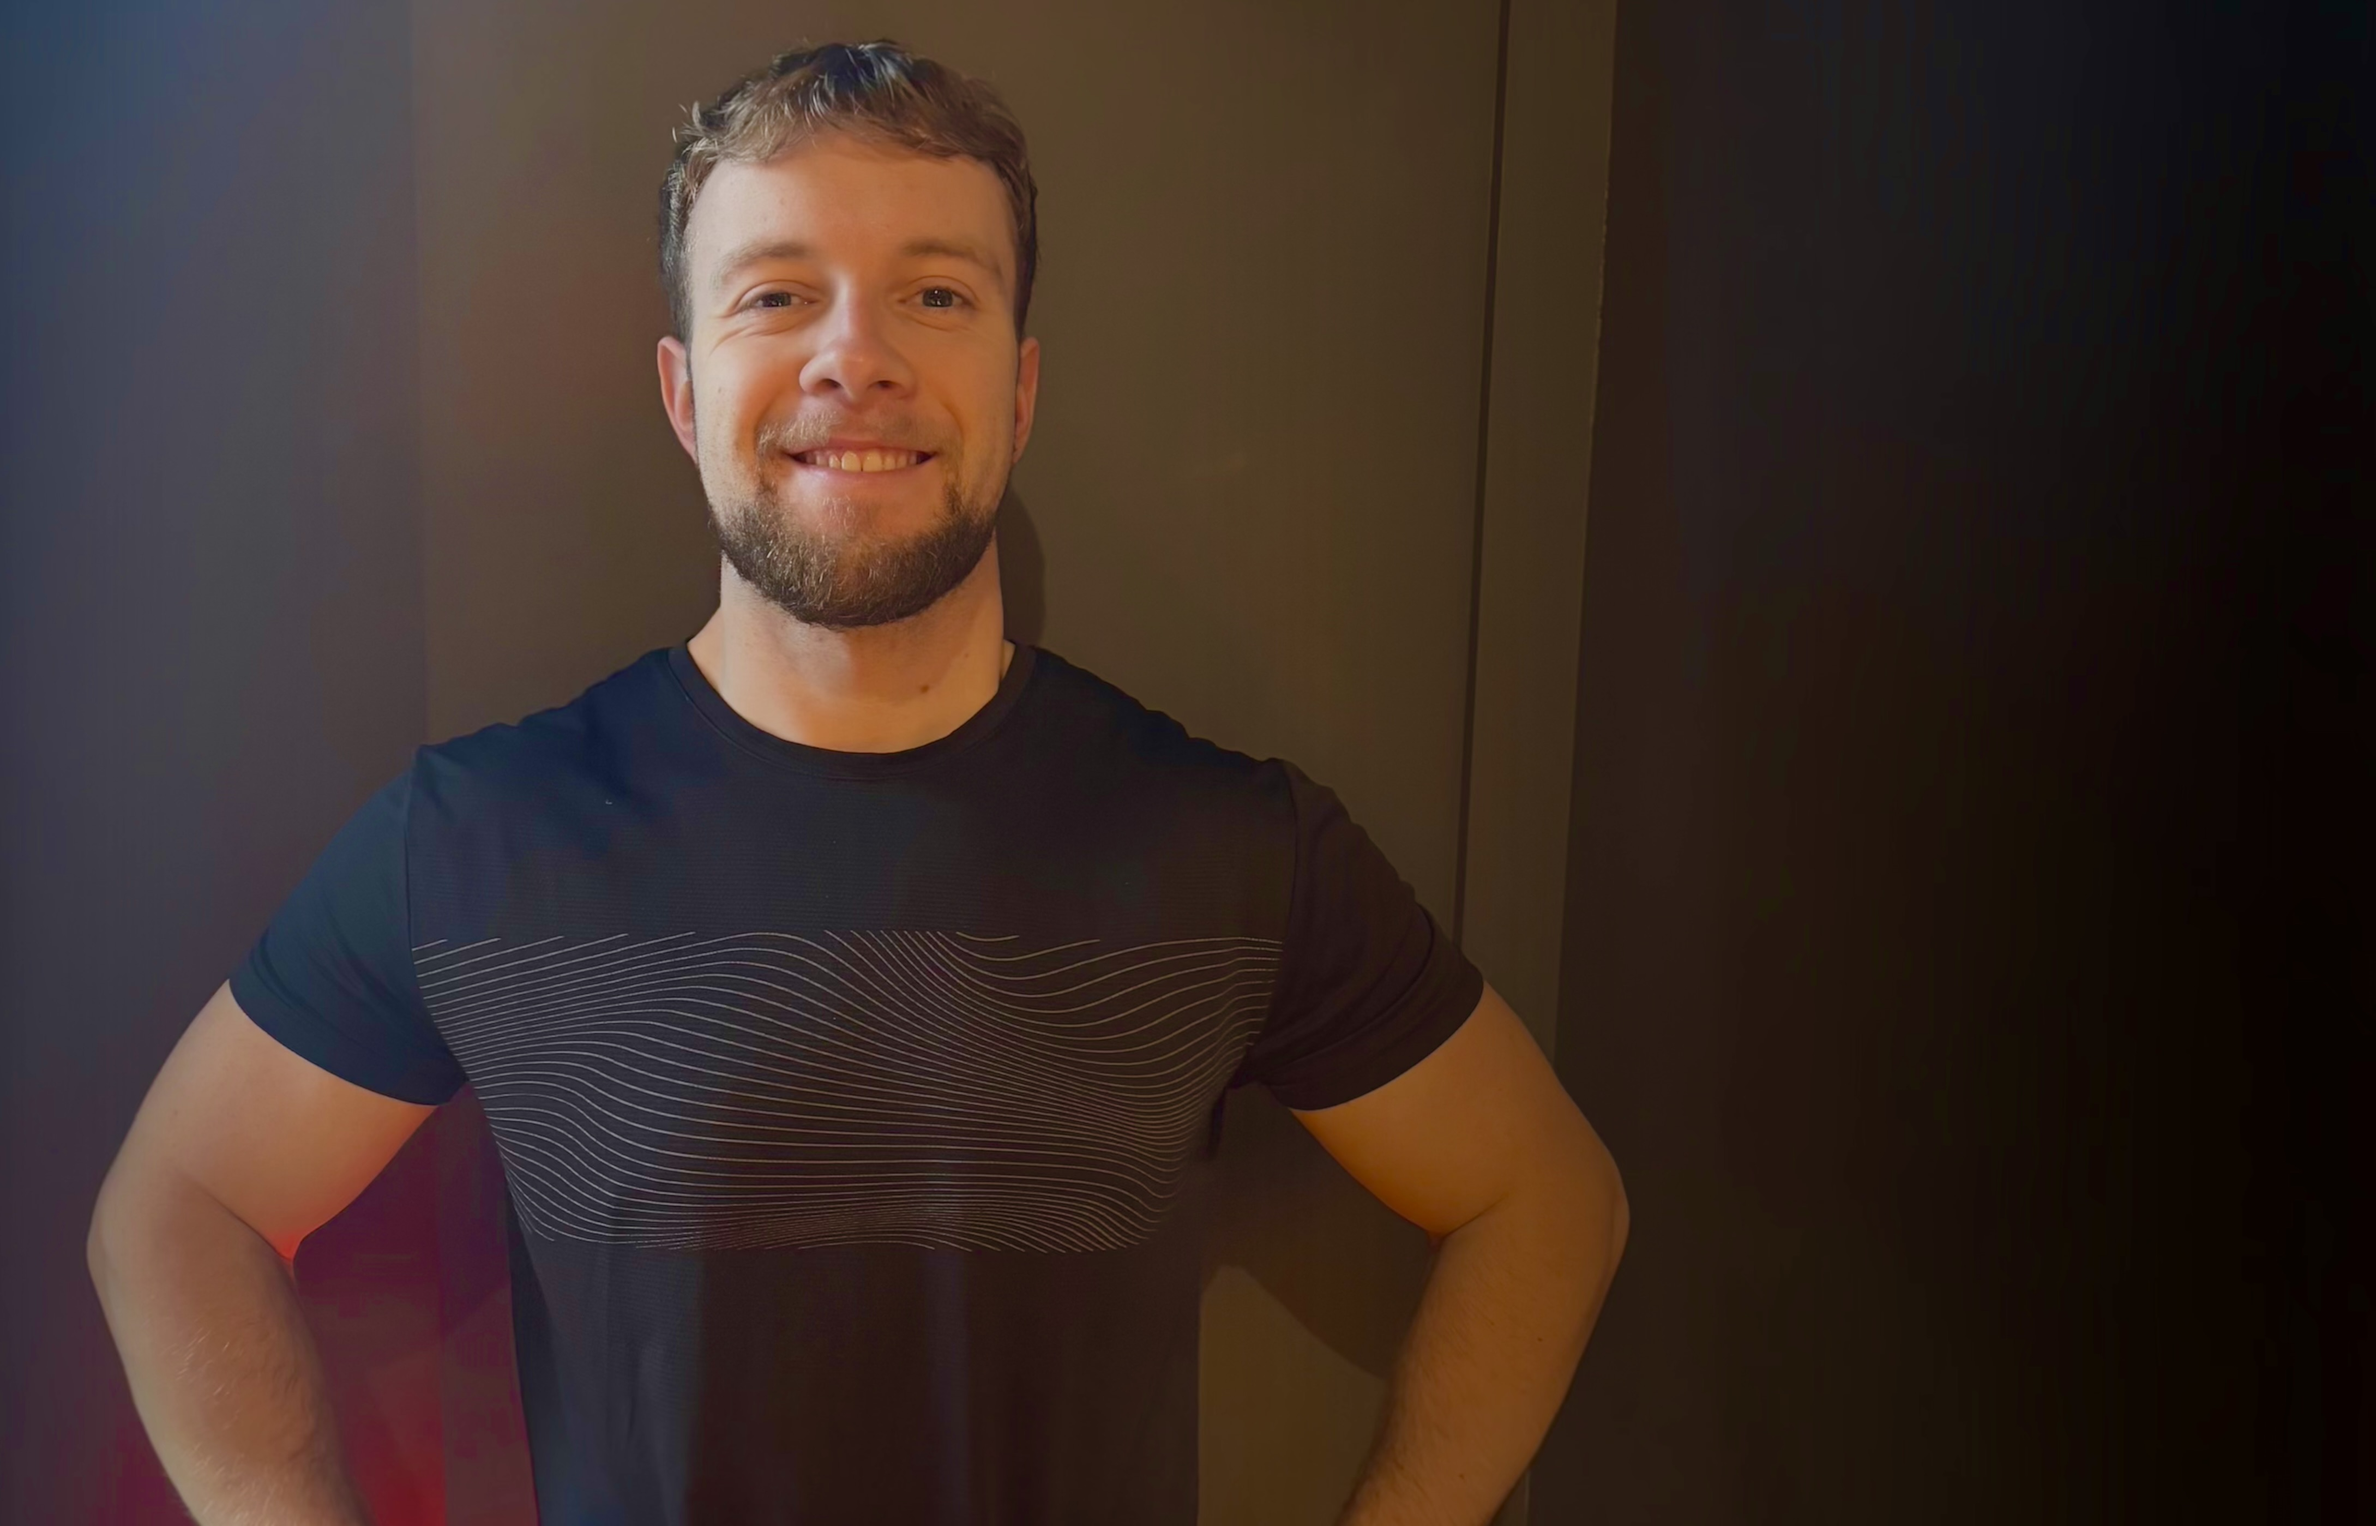
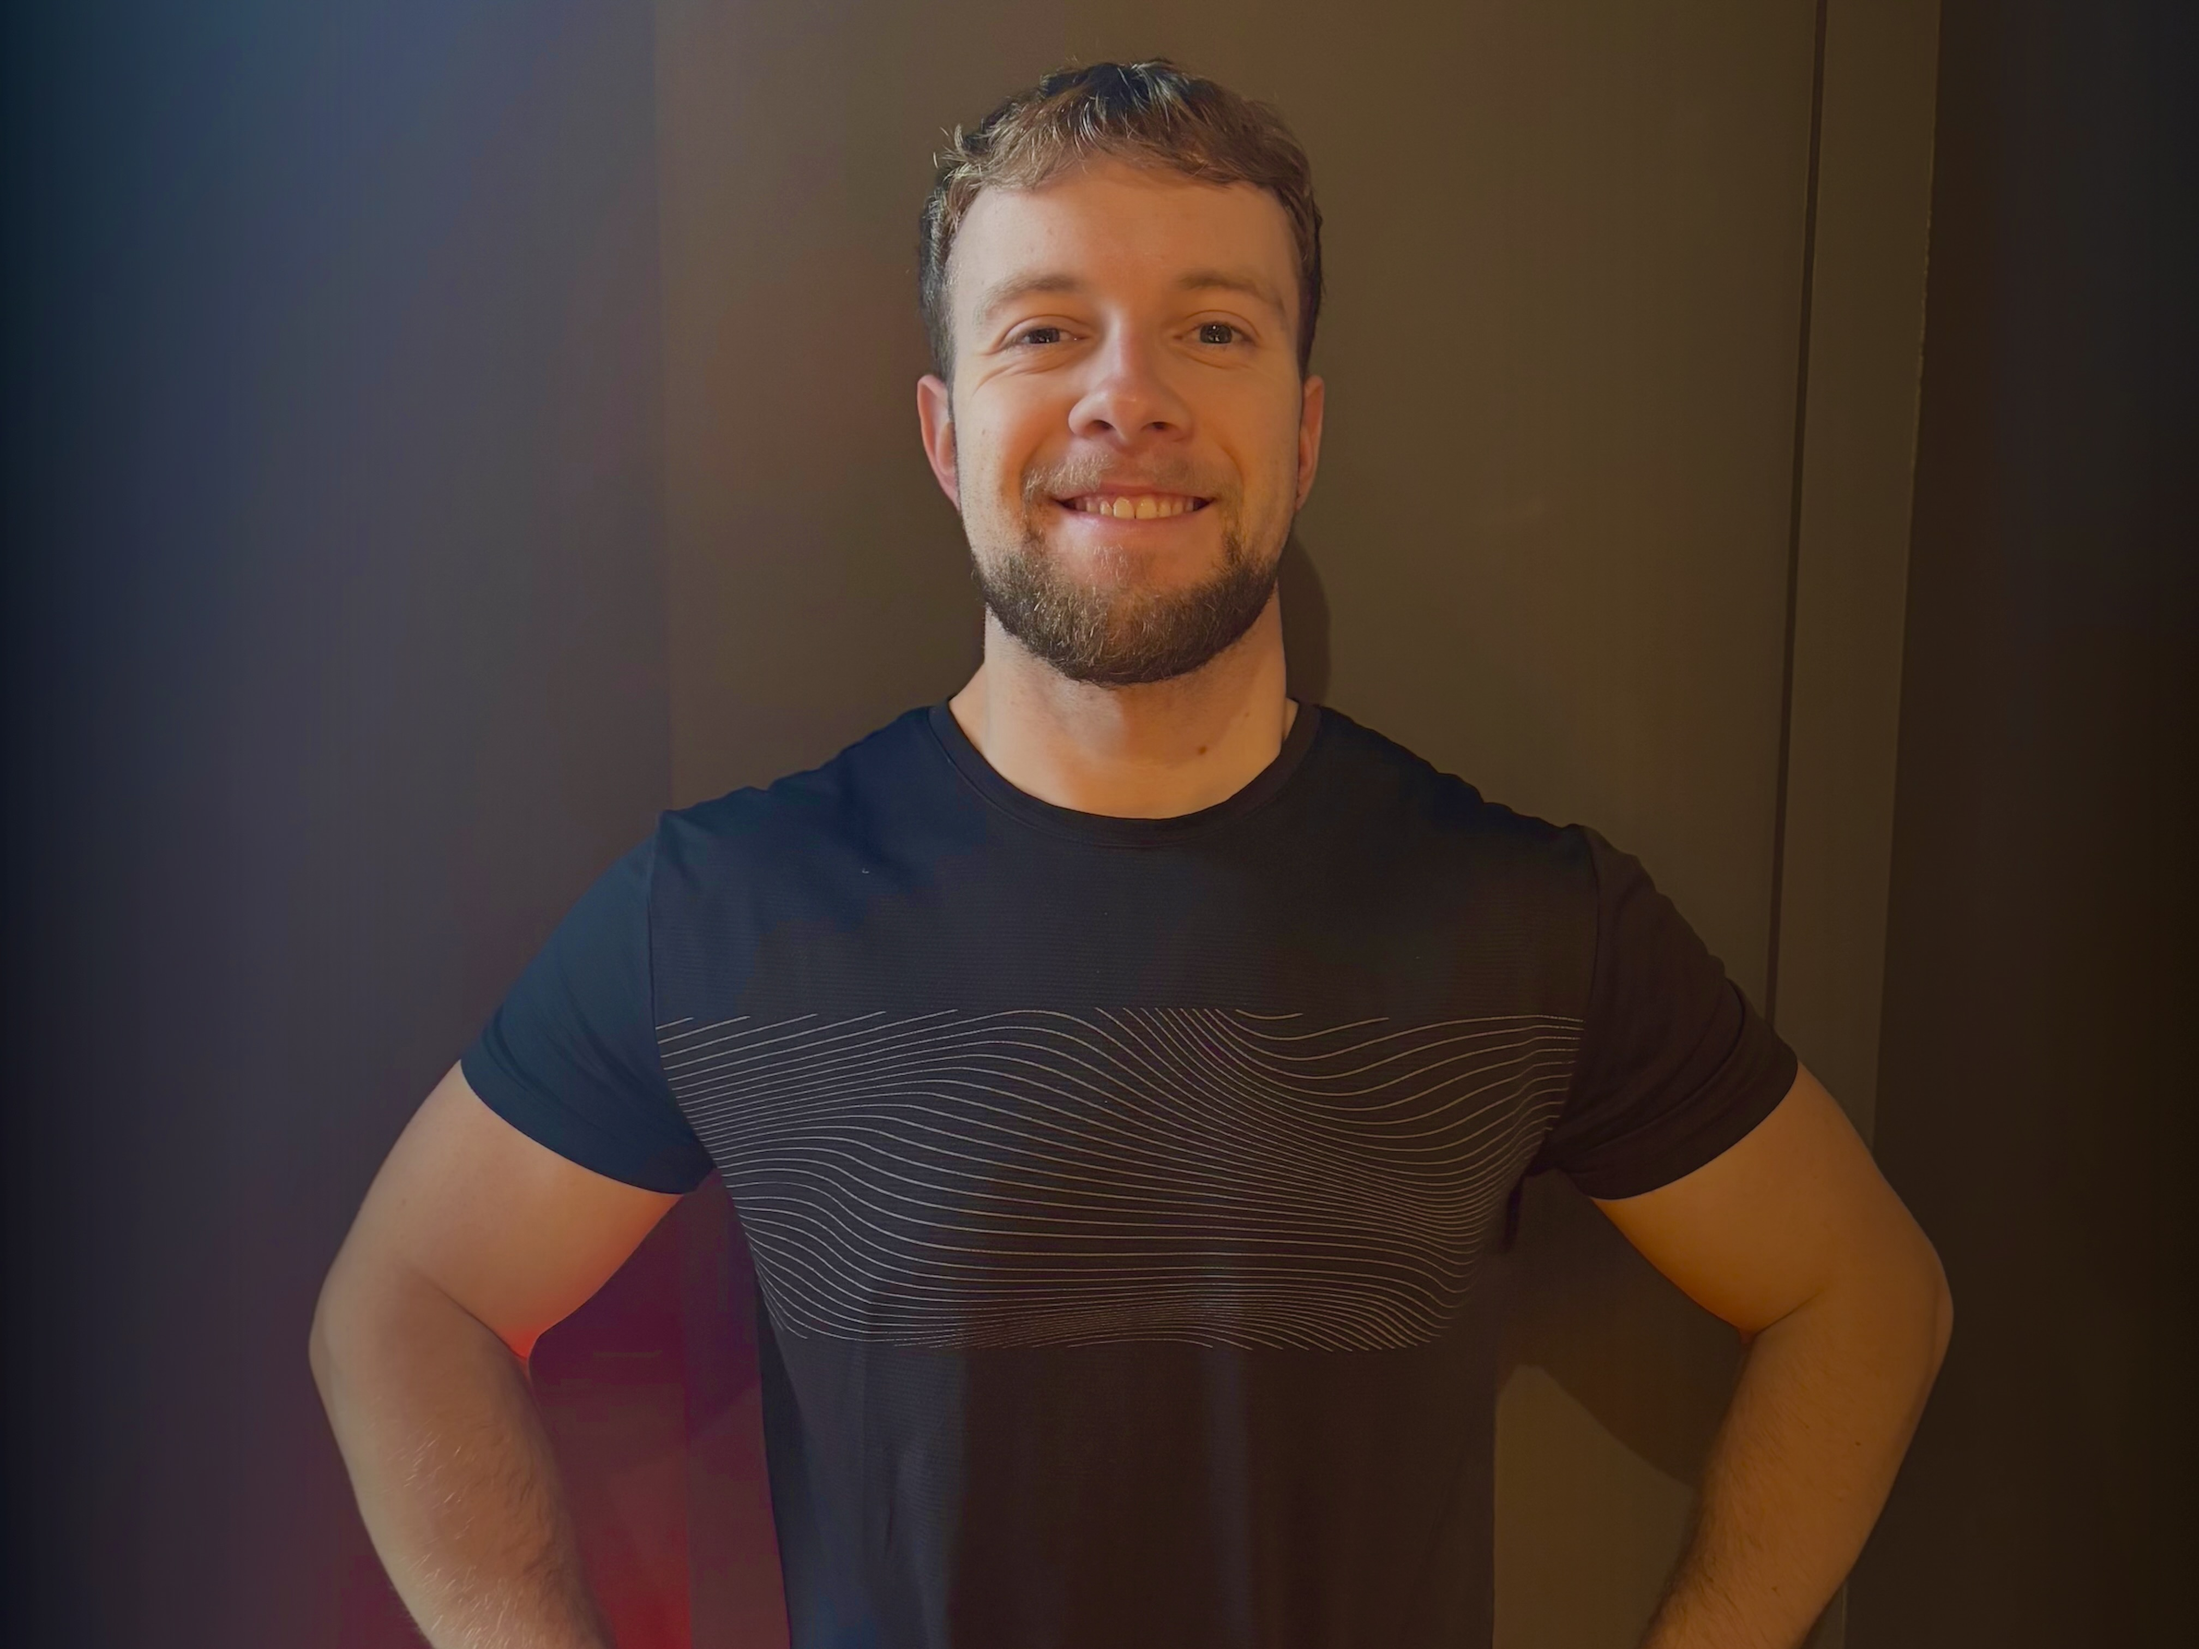
footer completed

diff --git a/index.html b/index.html
@@ -12,6 +12,7 @@
     <link rel="stylesheet" href="css/services.css">
     <link rel="stylesheet" href="css/results.css">
     <link rel="stylesheet" href="css/clients.css">
+    <link rel="stylesheet" href="css/footer.css">
     <link rel="img" href="img">
 
 </head>
@@ -148,16 +149,25 @@
 
         <footer id="contact">
             <div class="footer">
-                <p>LETS DO THIS</p>
-                <h2>READY TO GET STARTED?</h2>
-                <p>Your goals. Your plan. Your progress. <br> Let's build a stronger, healthier you.</p>
-                <button class="cbutton">BOOK YOUR FREE CONSULTATION → <a href="https://docs.google.com/forms/d/18K8pIfZrml_5RqEHcx7xoJfgKTKpZaP7RZSvRbnJzUc/viewform?pli=1&pli=1&edit_requested=true"></a></button>  
-                    
-                <p>Matt Farrow <br> Personal Training</p>
-                <p> Instagram | Facebook </p>
-                <p> ________________ </p>
-                <p>Bay Of Plenty, New Zealand</p>
-                <p>Train smarter. Feel better. Be stronger.</p>
+                <div class="text-left">
+                    <h3>LETS DO THIS</h3>
+                    <h1>READY TO GET STARTED?</h1>
+                    <p>Your goals. Your plan. Your progress. <br> Let's build a stronger, healthier you.</p>
+                    <button class="cbutton">BOOK YOUR FREE CONSULTATION → <a href="https://docs.google.com/forms/d/18K8pIfZrml_5RqEHcx7xoJfgKTKpZaP7RZSvRbnJzUc/viewform?pli=1&pli=1&edit_requested=true"></a></button>  
+                </div>
+
+                <div class="right-side-content">
+                        <img src="img/Logo-Transparent.png" class="footer-img"> <br>
+                    <div class="img-right">
+                        <p><a href="https://www.instagram.com/matt_farrow_pt/"> <img src="img/instagram-logo.png" class="social-img"></a></p>
+                        <p><a href="https://www.facebook.com/profile.php?id=61594382889769"> <img src="img/facebook-logo.png" class="social-img"></a></p>
+                    </div>
+
+                    <div class="text-right">
+                        <p>⚲ Bay Of Plenty, New Zealand</p>
+                        <p>Train smarter. Feel better. Be stronger.</p>
+                    </div>
+                </div>
             </div>
         </footer>
     </body>

diff --git a/css/footer.css b/css/footer.css
@@ -1,0 +1,89 @@
+.footer {
+    background: url('../img/footer.jpeg') no-repeat center/cover;
+    position: relative;
+    width: 100%;
+    height: 280px;
+    margin: 0 auto;
+}
+
+.footer {
+    margin-top: 40px;
+}
+
+.footer h3 {
+    color: #168CFF;
+    letter-spacing: 5px;
+    padding-top: 10px;
+    line-height: 0;
+}
+
+.footer h1 {
+    font-size: 40px;
+}
+
+.footer p {
+    font-size: 18px;
+}
+
+.footer .cbutton {
+    padding: 15px 40px;
+    font-size: 15px;
+}
+
+.text-left {
+    float: left;
+    margin-left: 20px; 
+}
+
+.right-side-content {
+    float: right;
+    margin-right: 20px; 
+    text-align: center;
+}
+
+.img-right {
+    display:inline-flex; 
+}
+
+.footer-img {
+    height: 80px;                   /* Constrain the height so it doesn't break layout */
+    width: auto;                    /* Maintain aspect ratio */
+}
+
+.social-img {
+    width: auto;
+    height: 40px;
+    padding: 10px;
+}
+
+
+/* Desktop Size */
+@media screen and (min-width: 1025px) and (max-width: 1280px) {
+    .footer {
+        height: 300px;
+    }
+}
+
+/* Laptops & Large Tablets Size */
+@media screen and (min-width: 769px) and (max-width: 1024px) {
+    .footer {
+        height: 300px;
+    }
+
+    .footer h1 {
+        font-size: 25px;
+    }
+}
+
+/* Tablets Size */
+@media screen and (min-width: 0px) and (max-width: 768px) {
+    .footer {
+        height: 600px;
+    }
+
+    .right-side-content {
+        margin-top: 5%;
+        float: left;
+    }
+}
+

diff --git a/css/aboutme.css b/css/aboutme.css
@@ -1,5 +1,5 @@
 .about {
-    background: url('../img/Matthew4.jpeg') no-repeat;
+    background: url('../img/Matthew.jpeg') no-repeat;
     position: relative;
     width: 100%;
     height: 100%;
